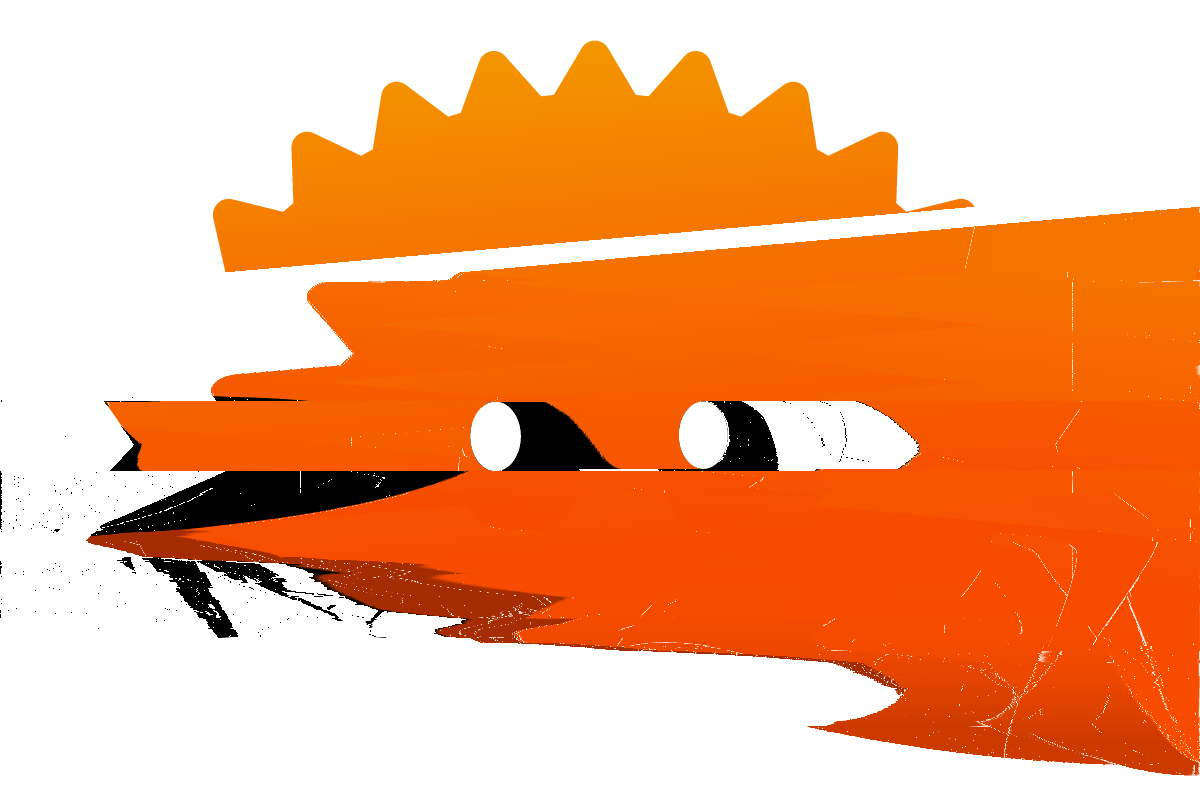
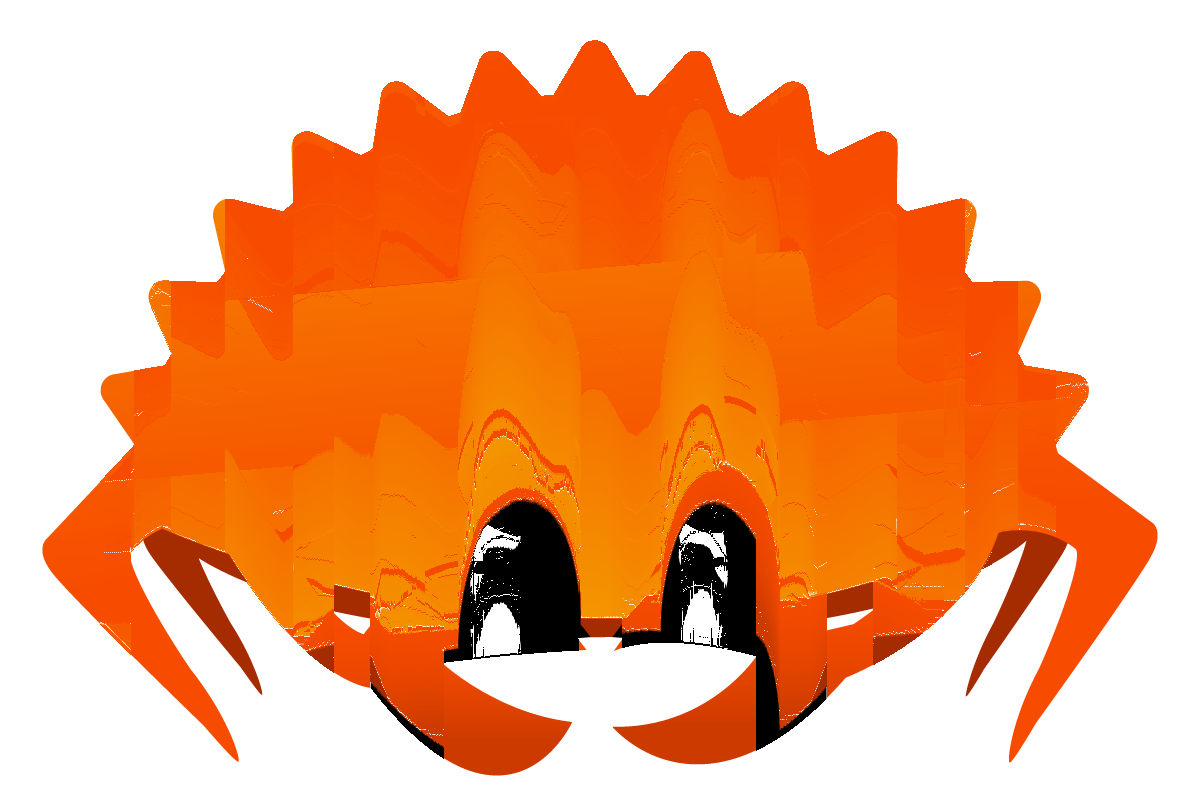
add alpha masking option

diff --git a/src/main.rs b/src/main.rs
@@ -118,6 +118,9 @@ struct Cli {
     /// Sort vertically instead of horizontally
     #[structopt(short)]
     vertical: bool,
+    /// Don't sort pixels that have zero alpha
+    #[structopt(long)]
+    mask_alpha: bool,
 }
 
 fn main() -> Result<(), ImageError> {
@@ -150,6 +153,7 @@ fn main() -> Result<(), ImageError> {
         .enumerate()
     {
         let sort_fn = cli.function.func();
+        let mask_fn = |p: &Rgba<u8>| !(cli.mask_alpha && p.data[3] == 0);
 
         let mut ctr = 0;
         while ctr < w as usize {
@@ -158,7 +162,7 @@ fn main() -> Result<(), ImageError> {
                 .iter()
                 .take_while(|p| {
                     let l = sort_fn(p);
-                    (l >= cli.minimum && l <= cli.maximum) != cli.invert
+                    (l >= cli.minimum && l <= cli.maximum) != cli.invert && mask_fn(p)
                 })
                 .count();
 
@@ -178,7 +182,7 @@ fn main() -> Result<(), ImageError> {
                 .iter()
                 .take_while(|p| {
                     let l = sort_fn(p);
-                    (l < cli.minimum || l > cli.maximum) != cli.invert
+                    (l < cli.minimum || l > cli.maximum) != cli.invert || !mask_fn(p)
                 })
                 .count();
         }
